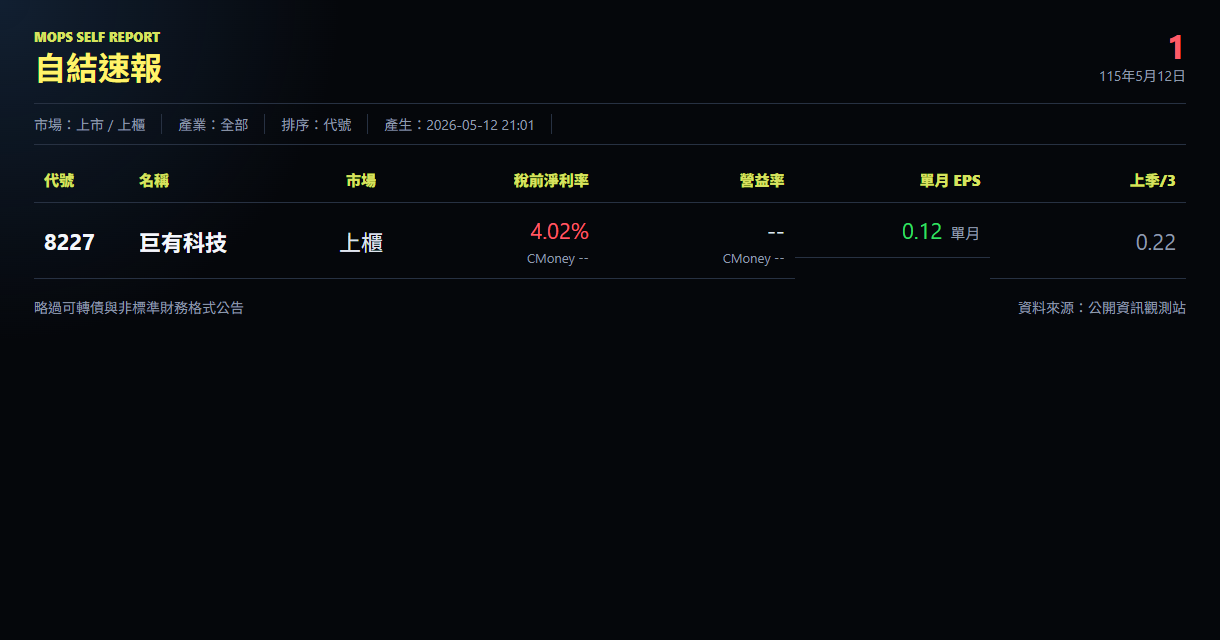
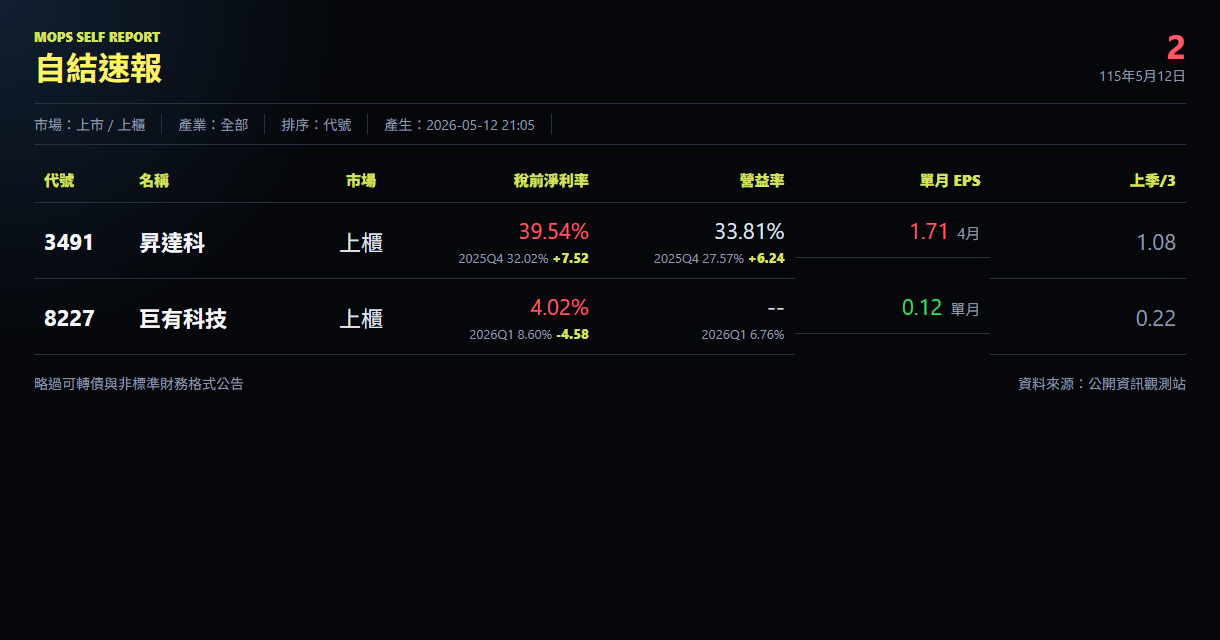
Update Taiwan self report 2026-05-12

diff --git a/web/data/self-report-history.js b/web/data/self-report-history.js
@@ -1,27 +1,49 @@
 window.selfReportHistory = {
   "items": [
     {
-      "generatedAt": "2026-05-12T21:01:15+08:00",
+      "generatedAt": "2026-05-12T21:05:35+08:00",
       "queryDate": "2026-05-12",
       "displayDate": "115年5月12日",
-      "checkedAt": "2026-05-12T21:01:15+08:00",
+      "checkedAt": "2026-05-12T21:05:35+08:00",
       "checkedQueryDate": "2026-05-12",
       "checkedDisplayDate": "115年5月12日",
-      "checkedCount": 1,
+      "checkedCount": 2,
       "checkedSkipped": {
         "bond_subject": 2,
         "missing_financials": 0,
         "duplicate": 1,
-        "detail_error": 1
+        "detail_error": 0
       },
-      "count": 1,
+      "count": 2,
       "skipped": {
         "bond_subject": 2,
         "missing_financials": 0,
         "duplicate": 1,
-        "detail_error": 1
+        "detail_error": 0
       },
       "rows": [
+        {
+          "code": "3491",
+          "name": "昇達科",
+          "market": "上櫃",
+          "announcement_date": "115/05/12",
+          "subject": "本公司有價證券近期有股價變動幅度較大情形，應櫃買中心要求 公告相關訊息，以利投資人區別暸解",
+          "month_label": "4月",
+          "monthly_revenue": 349.0,
+          "monthly_pre_tax_income": 138.0,
+          "monthly_parent_income": 118.0,
+          "monthly_eps": 1.71,
+          "quarter_eps": 3.23,
+          "tax_margin_pct": 39.541547277936964,
+          "operating_margin_pct": 33.810888252149,
+          "previous_quarter_monthly_eps": 1.0766666666666667,
+          "reference_quarter": "2025Q4",
+          "reference_tax_margin_pct": 32.02,
+          "reference_operating_margin_pct": 27.57,
+          "tax_margin_delta_pct": 7.5215472779369605,
+          "operating_margin_delta_pct": 6.240888252148999,
+          "detail_key": "otc:3491:20260512:150811:2"
+        },
         {
           "code": "8227",
           "name": "巨有科技",
@@ -37,10 +59,10 @@ window.selfReportHistory = {
           "tax_margin_pct": 4.023215934573275,
           "operating_margin_pct": null,
           "previous_quarter_monthly_eps": 0.22,
-          "reference_quarter": "",
-          "reference_tax_margin_pct": null,
-          "reference_operating_margin_pct": null,
-          "tax_margin_delta_pct": null,
+          "reference_quarter": "2026Q1",
+          "reference_tax_margin_pct": 8.6,
+          "reference_operating_margin_pct": 6.76,
+          "tax_margin_delta_pct": -4.5767840654267244,
           "operating_margin_delta_pct": null,
           "detail_key": "otc:8227:20260512:133424:1"
         }

diff --git a/web/data/self-report/self-report-2026-05-12.js b/web/data/self-report/self-report-2026-05-12.js
@@ -1,26 +1,48 @@
 window.selfReportArchiveItems = window.selfReportArchiveItems || {};
 window.selfReportArchiveItems["2026-05-12"] = {
-  "generatedAt": "2026-05-12T21:01:15+08:00",
+  "generatedAt": "2026-05-12T21:05:35+08:00",
   "queryDate": "2026-05-12",
   "displayDate": "115年5月12日",
-  "checkedAt": "2026-05-12T21:01:15+08:00",
+  "checkedAt": "2026-05-12T21:05:35+08:00",
   "checkedQueryDate": "2026-05-12",
   "checkedDisplayDate": "115年5月12日",
-  "checkedCount": 1,
+  "checkedCount": 2,
   "checkedSkipped": {
     "bond_subject": 2,
     "missing_financials": 0,
     "duplicate": 1,
-    "detail_error": 1
+    "detail_error": 0
   },
-  "count": 1,
+  "count": 2,
   "skipped": {
     "bond_subject": 2,
     "missing_financials": 0,
     "duplicate": 1,
-    "detail_error": 1
+    "detail_error": 0
   },
   "rows": [
+    {
+      "code": "3491",
+      "name": "昇達科",
+      "market": "上櫃",
+      "announcement_date": "115/05/12",
+      "subject": "本公司有價證券近期有股價變動幅度較大情形，應櫃買中心要求 公告相關訊息，以利投資人區別暸解",
+      "month_label": "4月",
+      "monthly_revenue": 349.0,
+      "monthly_pre_tax_income": 138.0,
+      "monthly_parent_income": 118.0,
+      "monthly_eps": 1.71,
+      "quarter_eps": 3.23,
+      "tax_margin_pct": 39.541547277936964,
+      "operating_margin_pct": 33.810888252149,
+      "previous_quarter_monthly_eps": 1.0766666666666667,
+      "reference_quarter": "2025Q4",
+      "reference_tax_margin_pct": 32.02,
+      "reference_operating_margin_pct": 27.57,
+      "tax_margin_delta_pct": 7.5215472779369605,
+      "operating_margin_delta_pct": 6.240888252148999,
+      "detail_key": "otc:3491:20260512:150811:2"
+    },
     {
       "code": "8227",
       "name": "巨有科技",
@@ -36,10 +58,10 @@ window.selfReportArchiveItems["2026-05-12"] = {
       "tax_margin_pct": 4.023215934573275,
       "operating_margin_pct": null,
       "previous_quarter_monthly_eps": 0.22,
-      "reference_quarter": "",
-      "reference_tax_margin_pct": null,
-      "reference_operating_margin_pct": null,
-      "tax_margin_delta_pct": null,
+      "reference_quarter": "2026Q1",
+      "reference_tax_margin_pct": 8.6,
+      "reference_operating_margin_pct": 6.76,
+      "tax_margin_delta_pct": -4.5767840654267244,
       "operating_margin_delta_pct": null,
       "detail_key": "otc:8227:20260512:133424:1"
     }

diff --git a/web/data/self-report-latest.js b/web/data/self-report-latest.js
@@ -1,25 +1,47 @@
 window.selfReportLatest = {
-  "generatedAt": "2026-05-12T21:01:15+08:00",
+  "generatedAt": "2026-05-12T21:05:35+08:00",
   "queryDate": "2026-05-12",
   "displayDate": "115年5月12日",
-  "checkedAt": "2026-05-12T21:01:15+08:00",
+  "checkedAt": "2026-05-12T21:05:35+08:00",
   "checkedQueryDate": "2026-05-12",
   "checkedDisplayDate": "115年5月12日",
-  "checkedCount": 1,
+  "checkedCount": 2,
   "checkedSkipped": {
     "bond_subject": 2,
     "missing_financials": 0,
     "duplicate": 1,
-    "detail_error": 1
+    "detail_error": 0
   },
-  "count": 1,
+  "count": 2,
   "skipped": {
     "bond_subject": 2,
     "missing_financials": 0,
     "duplicate": 1,
-    "detail_error": 1
+    "detail_error": 0
   },
   "rows": [
+    {
+      "code": "3491",
+      "name": "昇達科",
+      "market": "上櫃",
+      "announcement_date": "115/05/12",
+      "subject": "本公司有價證券近期有股價變動幅度較大情形，應櫃買中心要求 公告相關訊息，以利投資人區別暸解",
+      "month_label": "4月",
+      "monthly_revenue": 349.0,
+      "monthly_pre_tax_income": 138.0,
+      "monthly_parent_income": 118.0,
+      "monthly_eps": 1.71,
+      "quarter_eps": 3.23,
+      "tax_margin_pct": 39.541547277936964,
+      "operating_margin_pct": 33.810888252149,
+      "previous_quarter_monthly_eps": 1.0766666666666667,
+      "reference_quarter": "2025Q4",
+      "reference_tax_margin_pct": 32.02,
+      "reference_operating_margin_pct": 27.57,
+      "tax_margin_delta_pct": 7.5215472779369605,
+      "operating_margin_delta_pct": 6.240888252148999,
+      "detail_key": "otc:3491:20260512:150811:2"
+    },
     {
       "code": "8227",
       "name": "巨有科技",
@@ -35,10 +57,10 @@ window.selfReportLatest = {
       "tax_margin_pct": 4.023215934573275,
       "operating_margin_pct": null,
       "previous_quarter_monthly_eps": 0.22,
-      "reference_quarter": "",
-      "reference_tax_margin_pct": null,
-      "reference_operating_margin_pct": null,
-      "tax_margin_delta_pct": null,
+      "reference_quarter": "2026Q1",
+      "reference_tax_margin_pct": 8.6,
+      "reference_operating_margin_pct": 6.76,
+      "tax_margin_delta_pct": -4.5767840654267244,
       "operating_margin_delta_pct": null,
       "detail_key": "otc:8227:20260512:133424:1"
     }

diff --git a/web/index.html b/web/index.html
@@ -245,13 +245,13 @@
 
     <script src="./data/performance-snapshot.js?v=2026042904"></script>
     <script src="./data/daily-briefing.js?v=2026042904"></script>
-    <script src="./data/self-report-latest.js?v=20260512210121"></script>
-    <script src="./data/self-report-history.js?v=20260512210121"></script>
+    <script src="./data/self-report-latest.js?v=20260512210536"></script>
+    <script src="./data/self-report-history.js?v=20260512210536"></script>
     <script src="./data/financial-report-latest.js?v=2026043001"></script>
     <script src="./data/financial-report-history.js?v=2026043002"></script>
     <script src="./data/ir-summary-history.js?v=202605112230"></script>
     <script src="./data/tw-revenue-latest.js?v=2026042904"></script>
     <script src="./data/insider-holding-latest.js?v=2026042904"></script>
-    <script src="./app.js?v=20260508231200"></script>
+    <script src="./app.js?v=20260512210600"></script>
   </body>
 </html>
